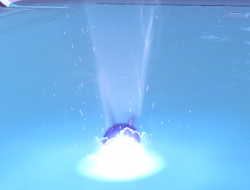
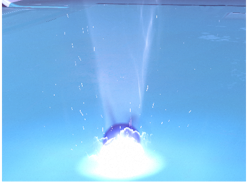
Added custom action for ElementalPlating so it can properly count solar cards it draws, increased cost and cards drawn. Changed ElectroPlating's upgrade to X+1 instead of magic number. Gave HeatVenting exhaust and more block. Cropped BlessingOfRadiance's art.

Changed region(s): [[0.0, 0.0, 1.0, 1.0]]

diff --git a/src/main/java/TheLightbearer/CustomActions/ElementalPlatingAction.java b/src/main/java/TheLightbearer/CustomActions/ElementalPlatingAction.java
@@ -1,0 +1,63 @@
+package TheLightbearer.CustomActions;
+
+import TheLightbearer.Effects.ComfortingFlamesEffect;
+import TheLightbearer.Effects.HeavyKnifeEffect;
+import com.megacrit.cardcrawl.actions.AbstractGameAction;
+import com.megacrit.cardcrawl.actions.animations.VFXAction;
+import com.megacrit.cardcrawl.actions.common.ApplyPowerAction;
+import com.megacrit.cardcrawl.actions.common.DamageAction;
+import com.megacrit.cardcrawl.actions.common.GainBlockAction;
+import com.megacrit.cardcrawl.actions.common.LoseHPAction;
+import com.megacrit.cardcrawl.actions.utility.WaitAction;
+import com.megacrit.cardcrawl.actions.watcher.SkipEnemiesTurnAction;
+import com.megacrit.cardcrawl.cards.AbstractCard;
+import com.megacrit.cardcrawl.cards.DamageInfo;
+import com.megacrit.cardcrawl.characters.AbstractPlayer;
+import com.megacrit.cardcrawl.core.AbstractCreature;
+import com.megacrit.cardcrawl.dungeons.AbstractDungeon;
+import com.megacrit.cardcrawl.monsters.AbstractMonster;
+import com.megacrit.cardcrawl.powers.PlatedArmorPower;
+import com.megacrit.cardcrawl.vfx.AbstractGameEffect;
+
+import java.util.stream.LongStream;
+
+import static TheLightbearer.util.CustomTags.SOLAR;
+
+public class ElementalPlatingAction extends AbstractGameAction {
+    private final AbstractPlayer p;
+
+    private final float startOffsetx = 550.0F;
+
+    private final float offsety = 150.0F;
+
+    private final float endOffsetx = 290.0F;
+    private final float length = 500;
+
+    public ElementalPlatingAction(AbstractPlayer p) {
+        this.actionType = ActionType.DAMAGE;
+        this.p = p;
+        this.target = p; //self damage targets player;
+        this.duration = 0.1F;
+    }
+
+    public void update() {
+        if (this.duration == 0.1F && this.target != null) {
+            int solarCount = countSolar();
+            addToBot(new ApplyPowerAction(p, p, new PlatedArmorPower(p, solarCount * 2)));
+        }
+        if ((AbstractDungeon.getCurrRoom()).monsters.areMonstersDead())
+            AbstractDungeon.actionManager.clearPostCombatActions();
+        this.isDone = true;
+    }
+
+    private int countSolar(){
+        int count = 1;
+        if(AbstractDungeon.isPlayerInDungeon()) {
+            for (AbstractCard c : AbstractDungeon.player.hand.group) {
+                if (c.tags.contains(SOLAR))
+                    count++;
+            }
+        }
+        return count;
+    }
+}

diff --git a/src/main/java/TheLightbearer/cards/Solar/ElementalPlating.java b/src/main/java/TheLightbearer/cards/Solar/ElementalPlating.java
@@ -1,5 +1,6 @@
 package TheLightbearer.cards.Solar;
 
+import TheLightbearer.CustomActions.ElementalPlatingAction;
 import TheLightbearer.cards.BaseCard;
 import TheLightbearer.character.LightbearerCharacter;
 import TheLightbearer.powers.ElementalPlatingPower;
@@ -23,13 +24,13 @@ public class ElementalPlating extends BaseCard {
             CardType.POWER, //The type. ATTACK/SKILL/POWER/CURSE/STATUS
             CardRarity.UNCOMMON, //Rarity. BASIC is for starting cards, then there's COMMON/UNCOMMON/RARE, and then SPECIAL and CURSE. SPECIAL is for cards you only get from events. Curse is for curses, except for special curses like Curse of the Bell and Necronomicurse.
             CardTarget.SELF, //The target. Single target is ENEMY, all enemies is ALL_ENEMY. Look at cards similar to what you want to see what to use.
-            1 //The card's base cost. -1 is X cost, -2 is no cost for unplayable cards like curses, or Reflex.
+            2 //The card's base cost. -1 is X cost, -2 is no cost for unplayable cards like curses, or Reflex.
     );
 
 
     //private static  final int costUpgrade = 0;
     private static final int MAGIC_NUMBER = 0;
-    private static final int UPG_MAGIC_NUMBER = 1;
+    private static final int UPG_MAGIC_NUMBER = 2;
 
     public ElementalPlating() {
         super(ID, info, "solar"); //Pass the required information to the BaseCard constructor.
@@ -40,22 +41,8 @@ public class ElementalPlating extends BaseCard {
 
     @Override
     public void use(AbstractPlayer p, AbstractMonster m) {
-        //addToBot(new ApplyPowerAction(p,p,new ElementalPlatingPower(p, this.magicNumber)));
         addToBot(new DrawCardAction(this.magicNumber));
-        int solarCount = countSolar();
-        addToBot(new ApplyPowerAction(p, p, new PlatedArmorPower(p, solarCount * 2)));
-
-    }
-
-    private int countSolar(){
-        int count = 0;
-        if(AbstractDungeon.isPlayerInDungeon()) {
-            for (AbstractCard c : AbstractDungeon.player.hand.group) {
-                if (c.tags.contains(SOLAR))
-                    count++;
-            }
-        }
-        return count;
+        addToBot(new ElementalPlatingAction(p));
     }
 
     @Override

diff --git a/src/main/java/TheLightbearer/cards/Arc/ElectroPlating.java b/src/main/java/TheLightbearer/cards/Arc/ElectroPlating.java
@@ -22,7 +22,7 @@ public class ElectroPlating extends BaseCard {
             -1
     );
     private static final int MAGIC_NUMBER = 2;
-    private static final int UPG_MAGIC_NUMBER = 1;
+    private static final int UPG_MAGIC_NUMBER = 0;
     private boolean freeToPlayOnce = false;
 
     public ElectroPlating() {
@@ -34,7 +34,7 @@ public class ElectroPlating extends BaseCard {
 
     @Override
     public void use(AbstractPlayer p, AbstractMonster m) {
-       addToBot(new ElectroPlatingAction(p,this.magicNumber,this.upgraded,this.freeToPlayOnce,energyOnUse));
+        addToBot(new ElectroPlatingAction(p, this.magicNumber, this.upgraded, this.freeToPlayOnce, energyOnUse));
     }
 
     @Override

diff --git a/src/main/java/TheLightbearer/cards/Solar/HeatVenting.java b/src/main/java/TheLightbearer/cards/Solar/HeatVenting.java
@@ -25,7 +25,7 @@ public class HeatVenting extends BaseCard {
             2 //The card's base cost. -1 is X cost, -2 is no cost for unplayable cards like curses, or Reflex.
     );
 
-    private static final int BLOCK = 10;
+    private static final int BLOCK = 14;
     private static final int UPG_BLOCK = 4;
 
     private static final int MAGIC_NUMBER = 1;
@@ -37,6 +37,7 @@ public class HeatVenting extends BaseCard {
         setBlock(BLOCK, UPG_BLOCK); //Sets the card's Block and how much it changes when upgraded.
         setMagic(MAGIC_NUMBER, UPG_MAGIC_NUMBER);
         tags.add(SOLAR);
+        setExhaust(true);
     }
 
     @Override

diff --git a/src/main/java/TheLightbearer/CustomActions/ElectroPlatingAction.java b/src/main/java/TheLightbearer/CustomActions/ElectroPlatingAction.java
@@ -33,6 +33,9 @@ public class ElectroPlatingAction extends AbstractGameAction {
             effect += 2;
             p.getRelic(ChemicalX.ID).flash();
         }
+        if(upgraded){
+            effect += 1;
+        }
         if (effect > 0) {
             for (int i = 0; i < effect; ++i) {
 
